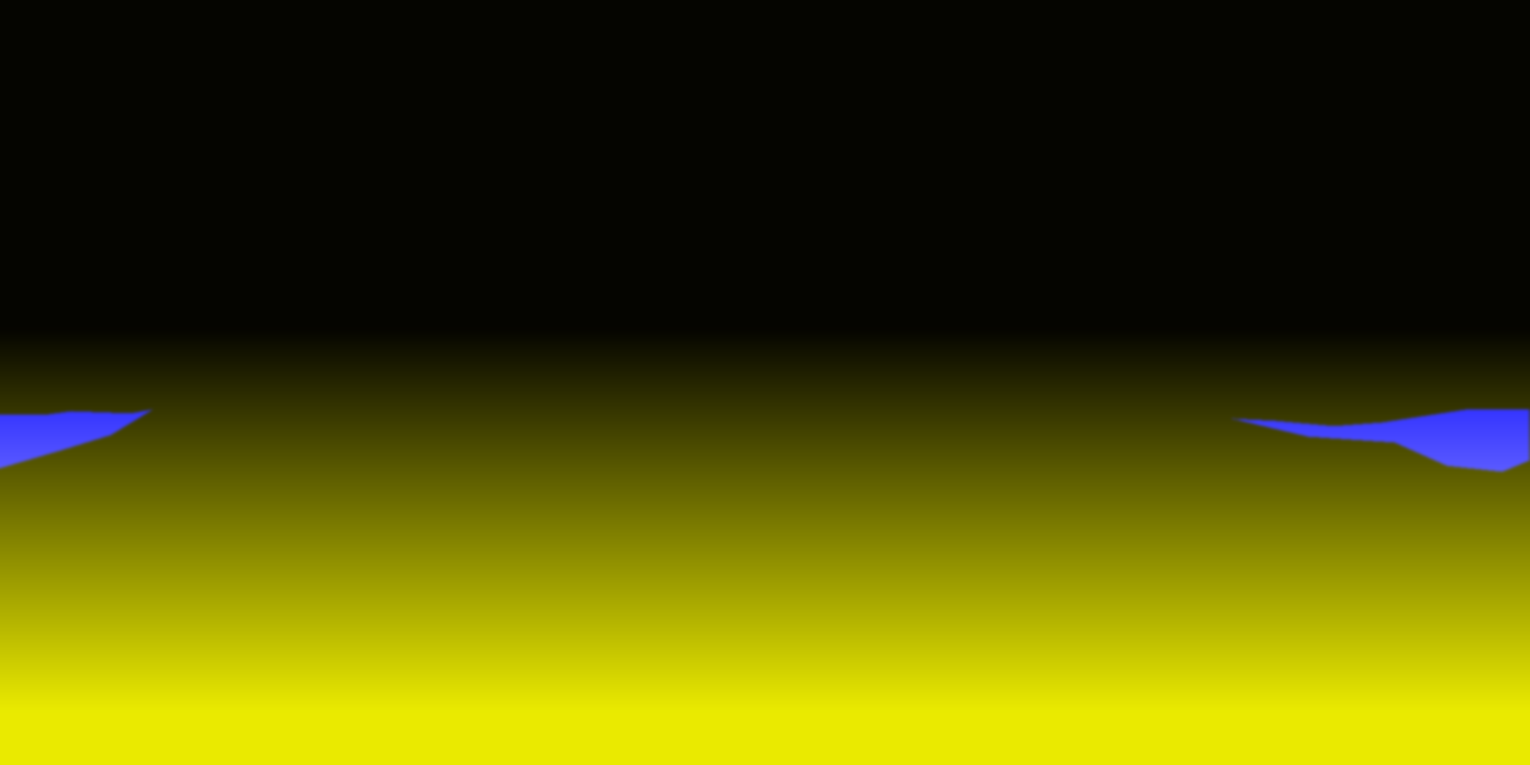
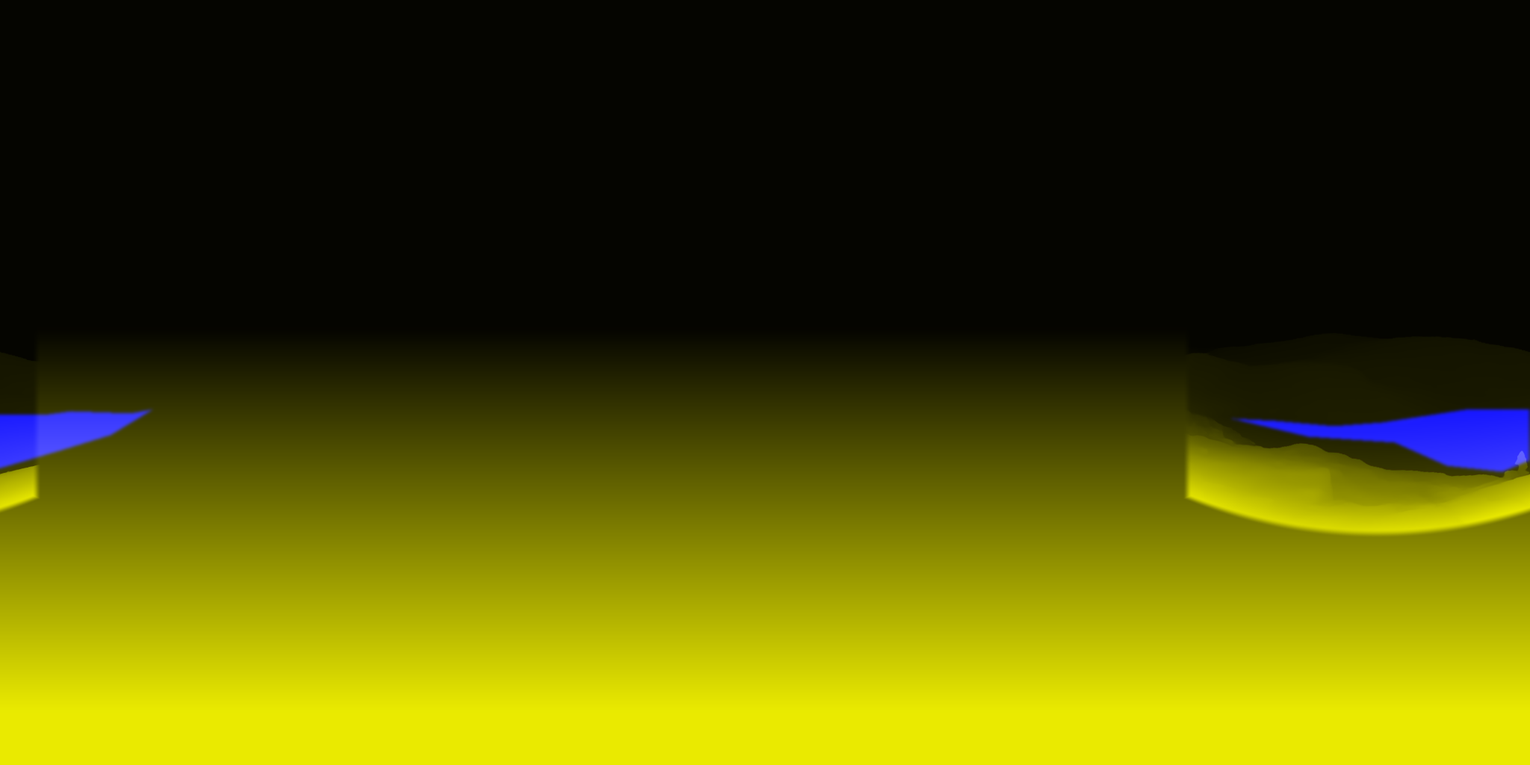
Apply verified Depth Anything V2 Small maps to World Window

Changed region(s): [[0.75, 0.5, 1.0, 0.7188], [0.0, 0.5312, 0.0312, 0.6875]]

diff --git a/dlc/world-window/credits.html b/dlc/world-window/credits.html
@@ -1,1 +1,1 @@
-<!doctype html><html lang="zh-Hant"><head><meta charset="utf-8"><meta name="viewport" content="width=device-width,initial-scale=1"><title>照片與授權 · 世界之窗</title><link rel="icon" href="./window.svg"><link rel="stylesheet" href="./style.css?v=20261111-room3d"></head><body><main class="credit-page"><a href="./">← 回到窗邊</a><h1>照片與授權</h1><p>山湖照片依 CC BY-SA 3.0 提供，其餘三張照片為 CC0。皆允許免費使用與商用；山湖照片及其改作需署名，並以相同授權分享。</p><p><a href="https://polyhaven.com/license">Poly Haven 官方素材授權</a> · <a href="https://github.com/Poly-Haven/polyhaven.com/blob/b1a6aa13afc03ae00860f6ac5fe6d5daf8e95356/public/locales/en/license.json">已核對的官方授權頁文字版本</a>。此處引用的是照片素材授權，與其網站程式碼的 AGPL 授權不同。</p><article><h2>Jordan Pond · 山湖</h2><p>攝影：Matthew Petroff · <a href="https://creativecommons.org/licenses/by-sa/3.0/">CC BY-SA 3.0</a></p><p><a href="https://github.com/mpetroff/pannellum/tree/818b698d2b60d9cd534a9395ea838d4d33ccb06d/examples">原始素材頁</a> · <a href="https://raw.githubusercontent.com/mpetroff/pannellum/818b698d2b60d9cd534a9395ea838d4d33ccb06d/examples/examplepano.jpg">4096 × 2048 原始照片</a> · <a href="https://github.com/mpetroff/pannellum/blob/818b698d2b60d9cd534a9395ea838d4d33ccb06d/examples/example-image-copying.txt">照片授權證據</a> · <a href="https://github.com/mpetroff/pannellum/blob/818b698d2b60d9cd534a9395ea838d4d33ccb06d/examples/example-tour.json">攝影署名紀錄</a></p><p>修改：不放大原圖，轉成 WebP、生成透視預覽、近似深度與水域遮罩。照片改作維持 CC BY-SA 3.0，詳見 <a href="./assets/lake-LICENSE.txt">隨附授權</a>。湖面微動為局部影像扭曲，不是實拍影片或物理水體；尚未使用 Depth Anything。</p></article><article><h2>venice sunset</h2><p>來源：Poly Haven · CC0 1.0</p><p><a href="https://polyhaven.com/a/venice_sunset">原始素材頁</a> · <a href="https://raw.githubusercontent.com/mrdoob/three.js/739478bc5ac18509be78095ed8f2fa4403b8207e/examples/textures/equirectangular/venice_sunset_1k.hdr">本次使用的 HDR 原檔</a></p><p>原始全景 1024 × 512；HDR 色調映射後轉成 WebP，以球面到透視投影呈現；1K 全景裁切後細節有限。深度為手工近似距離場，並非 AI 推算或實測深度。</p></article><article><h2>blouberg sunrise 2</h2><p>來源：Poly Haven · CC0 1.0</p><p><a href="https://polyhaven.com/a/blouberg_sunrise_2">原始素材頁</a> · <a href="https://raw.githubusercontent.com/mrdoob/three.js/739478bc5ac18509be78095ed8f2fa4403b8207e/examples/textures/equirectangular/blouberg_sunrise_2_1k.hdr">本次使用的 HDR 原檔</a></p><p>原始全景 1024 × 512；HDR 色調映射後轉成 WebP，以球面到透視投影呈現；1K 全景裁切後細節有限。深度為手工近似距離場，並非 AI 推算或實測深度。</p></article><article><h2>spruit sunrise</h2><p>來源：Poly Haven · CC0 1.0</p><p><a href="https://polyhaven.com/a/spruit_sunrise">原始素材頁</a> · <a href="https://raw.githubusercontent.com/mrdoob/three.js/739478bc5ac18509be78095ed8f2fa4403b8207e/examples/textures/equirectangular/spruit_sunrise_1k.hdr">本次使用的 HDR 原檔</a></p><p>原始全景 1024 × 512；HDR 色調映射後轉成 WebP，以球面到透視投影呈現；1K 全景裁切後細節有限。深度為手工近似距離場，並非 AI 推算或實測深度。</p></article><p>日夜是依地區日照調整光色，不是即時影像或天氣。地區座標為近似值；南非草地以約翰尼斯堡區域估計日照，並非確認的拍攝 GPS。</p><p><a href="./assets/sources.json">機器可讀來源、SHA-256 與處理紀錄</a></p><p>室內窗邊以 Three.js 呈現程序生成的 3D 幾何與材質，程式庫依 <a href="./vendor/THREE-LICENSE.txt">MIT 授權</a> 使用。室內不是掃描實景，窗外仍為照片與近似深度。</p></main></body></html>
+<!doctype html><html lang="zh-Hant"><head><meta charset="utf-8"><meta name="viewport" content="width=device-width,initial-scale=1"><title>照片與授權 · 世界之窗</title><link rel="icon" href="./window.svg"><link rel="stylesheet" href="./style.css?v=20261111-room3d"></head><body><main class="credit-page"><a href="./">← 回到窗邊</a><h1>照片與授權</h1><p>山湖照片依 CC BY-SA 3.0 提供，其餘三張照片為 CC0。皆允許免費使用與商用；山湖照片及其改作需署名，並以相同授權分享。</p><p><a href="https://polyhaven.com/license">Poly Haven 官方素材授權</a> · <a href="https://github.com/Poly-Haven/polyhaven.com/blob/b1a6aa13afc03ae00860f6ac5fe6d5daf8e95356/public/locales/en/license.json">已核對的官方授權頁文字版本</a>。此處引用的是照片素材授權，與其網站程式碼的 AGPL 授權不同。</p><article><h2>Jordan Pond · 山湖</h2><p>攝影：Matthew Petroff · <a href="https://creativecommons.org/licenses/by-sa/3.0/">CC BY-SA 3.0</a></p><p><a href="https://github.com/mpetroff/pannellum/tree/818b698d2b60d9cd534a9395ea838d4d33ccb06d/examples">原始素材頁</a> · <a href="https://raw.githubusercontent.com/mpetroff/pannellum/818b698d2b60d9cd534a9395ea838d4d33ccb06d/examples/examplepano.jpg">4096 × 2048 原始照片</a> · <a href="https://github.com/mpetroff/pannellum/blob/818b698d2b60d9cd534a9395ea838d4d33ccb06d/examples/example-image-copying.txt">照片授權證據</a> · <a href="https://github.com/mpetroff/pannellum/blob/818b698d2b60d9cd534a9395ea838d4d33ccb06d/examples/example-tour.json">攝影署名紀錄</a></p><p>修改：不放大原圖，轉成 WebP、生成透視預覽、模型估算的相對深度與手工水域遮罩。照片改作維持 CC BY-SA 3.0，詳見 <a href="./assets/lake-LICENSE.txt">隨附授權</a>。湖面微動為局部影像扭曲，不是實拍影片或物理水體；觀看範圍的相對深度由 Depth Anything V2 Small 離線估算。</p></article><article><h2>venice sunset</h2><p>來源：Poly Haven · CC0 1.0</p><p><a href="https://polyhaven.com/a/venice_sunset">原始素材頁</a> · <a href="https://raw.githubusercontent.com/mrdoob/three.js/739478bc5ac18509be78095ed8f2fa4403b8207e/examples/textures/equirectangular/venice_sunset_1k.hdr">本次使用的 HDR 原檔</a></p><p>原始全景 1024 × 512；HDR 色調映射後轉成 WebP，以球面到透視投影呈現；1K 全景裁切後細節有限。觀看範圍由 Depth Anything V2 Small 離線估算相對深度，未涵蓋的全景區域保留近似深度；不是實測距離。</p></article><article><h2>blouberg sunrise 2</h2><p>來源：Poly Haven · CC0 1.0</p><p><a href="https://polyhaven.com/a/blouberg_sunrise_2">原始素材頁</a> · <a href="https://raw.githubusercontent.com/mrdoob/three.js/739478bc5ac18509be78095ed8f2fa4403b8207e/examples/textures/equirectangular/blouberg_sunrise_2_1k.hdr">本次使用的 HDR 原檔</a></p><p>原始全景 1024 × 512；HDR 色調映射後轉成 WebP，以球面到透視投影呈現；1K 全景裁切後細節有限。觀看範圍由 Depth Anything V2 Small 離線估算相對深度，未涵蓋的全景區域保留近似深度；不是實測距離。</p></article><article><h2>spruit sunrise</h2><p>來源：Poly Haven · CC0 1.0</p><p><a href="https://polyhaven.com/a/spruit_sunrise">原始素材頁</a> · <a href="https://raw.githubusercontent.com/mrdoob/three.js/739478bc5ac18509be78095ed8f2fa4403b8207e/examples/textures/equirectangular/spruit_sunrise_1k.hdr">本次使用的 HDR 原檔</a></p><p>原始全景 1024 × 512；HDR 色調映射後轉成 WebP，以球面到透視投影呈現；1K 全景裁切後細節有限。觀看範圍由 Depth Anything V2 Small 離線估算相對深度，未涵蓋的全景區域保留近似深度；不是實測距離。</p></article><p>日夜是依地區日照調整光色，不是即時影像或天氣。地區座標為近似值；南非草地以約翰尼斯堡區域估計日照，並非確認的拍攝 GPS。</p><p><a href="./assets/sources.json">機器可讀來源、SHA-256 與處理紀錄</a></p><p>室內窗邊以 Three.js 呈現程序生成的 3D 幾何與材質，程式庫依 <a href="./vendor/THREE-LICENSE.txt">MIT 授權</a> 使用。室內不是掃描實景，窗外仍為照片與估算的相對深度。</p><p>深度模型：<a href="https://huggingface.co/depth-anything/Depth-Anything-V2-Small-hf">Depth Anything V2 Small</a>（Apache-2.0）。模型於製作素材時離線執行，訪客不需下載模型；自選照片仍使用近似深度。<a href="./assets/depth-inference.json">模型版本、權重與輸出 SHA-256 紀錄</a>。模型授權不取代照片及其改作的原有授權。</p></main></body></html>

diff --git a/dlc/world-window/app.js b/dlc/world-window/app.js
@@ -1,4 +1,4 @@
-import {scenes} from './scenes.js?v=20261111';
+import {scenes} from './scenes.js?v=20261117-depth';
 import {sunPosition,phase,localTime} from './solar.js';
 import {createRenderer} from './renderer.js?v=20261111';
 const $=s=>document.querySelector(s),reduced=matchMedia('(prefers-reduced-motion: reduce)');
@@ -11,12 +11,12 @@ initRenderer();
 if(renderer)import('./room.js?v=20261111-room3d').then(({createRoom})=>{
  try{roomRenderer=createRoom($('#room-view'),$('.room'),$('#view'),mode=>state.room=mode);roomRenderer.draw();}catch{state.room='css';}
 }).catch(()=>{state.room='css';});
-function sourceURLs(i){return [`./assets/${scenes[i].id}.webp`,`./assets/${scenes[i].id}-depth.png`];}
+function sourceURLs(i){return [`./assets/${scenes[i].id}.webp`,`./assets/${scenes[i].id}-depth.png?v=20261117-depth`];}
 function setPressed(){document.querySelectorAll('[data-scene]').forEach(b=>b.setAttribute('aria-pressed',String(+b.dataset.scene===state.scene&&!state.custom)));document.querySelectorAll('[data-time]').forEach(b=>b.setAttribute('aria-pressed',String(b.dataset.time===state.mode)));for(const [id,key]of [['motion','motion'],['rain','rain'],['quiet','paused']])$('#'+id).setAttribute('aria-pressed',String(state[key]));$('#quiet').textContent=state.paused?'繼續看':'停一會';$('#offset').value=state.offset===0?'此刻':`${state.offset>0?'+':''}${state.offset.toFixed(1)} 小時`;$('#hour').value=state.offset;}
 async function selectScene(i){
  const token=++request;$('#status').textContent='正在開一扇窗…';
  try{if(!cache.has(i))cache.set(i,Promise.all(sourceURLs(i).map(loadImage)));const loaded=await cache.get(i);if(token!==request)return;
-  images=loaded;renderer?.load(...loaded);state.scene=i;state.custom=false;state.ready=true;drift=[0,0];$('#still').src=scenes[i].preview||sourceURLs(i)[0];$('#still').alt=`${scenes[i].name}實景窗景`;$('#caption').textContent=scenes[i].caption;$('#place').textContent=scenes[i].en;$('#status').textContent=renderer?'':'此瀏覽器先以靜態照片陪你看風景。';if(uploadedURL){URL.revokeObjectURL(uploadedURL);uploadedURL=null;}setPressed();updateHud();
+  images=loaded;renderer?.load(...loaded);state.scene=i;state.custom=false;state.depthSource=scenes[i].depthSource;state.ready=true;drift=[0,0];$('#still').src=scenes[i].preview||sourceURLs(i)[0];$('#still').alt=`${scenes[i].name}實景窗景`;$('#caption').textContent=scenes[i].caption;$('#place').textContent=scenes[i].en;$('#status').textContent=renderer?'':'此瀏覽器先以靜態照片陪你看風景。';if(uploadedURL){URL.revokeObjectURL(uploadedURL);uploadedURL=null;}setPressed();updateHud();
  }catch{cache.delete(i);if(token===request)$('#status').textContent='窗景沒能載入，請再選一次。';}
 }
 scenes.forEach((s,i)=>{const b=document.createElement('button');b.className='place';b.dataset.scene=i;b.innerHTML=`<span>${s.name}</span><small>${String(i+1).padStart(2,'0')} / WINDOW</small>`;b.onclick=()=>selectScene(i);$('#places').appendChild(b);const li=document.createElement('li'),a=document.createElement('a');a.href=s.source||'https://polyhaven.com/a/'+s.asset;a.target='_blank';a.rel='noopener noreferrer';a.textContent=`${s.name} · ${s.author||'Poly Haven'} · ${s.license||'CC0'}`;li.appendChild(a);$('#credits').appendChild(li);});
@@ -32,7 +32,7 @@ $('#photo').onchange=async e=>{
  try{if(file.size>20*1024*1024)throw Error('請選擇小於 20 MB 的照片。');$('#upload-status').textContent='正在打開照片…';url=URL.createObjectURL(file);const im=await loadImage(url);if(token!==request){URL.revokeObjectURL(url);return;}
   const ratio=Math.min(1,2048/Math.max(im.naturalWidth,im.naturalHeight));const photo=document.createElement('canvas');photo.width=Math.round(im.naturalWidth*ratio);photo.height=Math.round(im.naturalHeight*ratio);photo.getContext('2d').drawImage(im,0,0,photo.width,photo.height);
   const depth=document.createElement('canvas');depth.width=depth.height=64;const c=depth.getContext('2d'),g=c.createLinearGradient(0,0,0,64);g.addColorStop(0,'#080800');g.addColorStop(.45,'#181800');g.addColorStop(1,'#d0d000');c.fillStyle=g;c.fillRect(0,0,64,64);
-  renderer?.load(photo,depth);images=[photo,depth];if(uploadedURL)URL.revokeObjectURL(uploadedURL);uploadedURL=url;state.custom=true;state.ready=true;$('#still').src=url;$('#still').alt='你選擇的私人照片';$('#caption').textContent='你的照片，借這座城市的光。';$('#place').textContent='YOUR WINDOW';$('#upload-status').textContent='已打開，只留在你的瀏覽器。';$('#status').textContent='';setPressed();about.close();
+  renderer?.load(photo,depth);images=[photo,depth];if(uploadedURL)URL.revokeObjectURL(uploadedURL);uploadedURL=url;state.custom=true;state.depthSource='approximate';state.ready=true;$('#still').src=url;$('#still').alt='你選擇的私人照片';$('#caption').textContent='你的照片，借這座城市的光。';$('#place').textContent='YOUR WINDOW';$('#upload-status').textContent='已打開，只留在你的瀏覽器。';$('#status').textContent='';setPressed();about.close();
  }catch(error){if(url)URL.revokeObjectURL(url);$('#upload-status').textContent=error.message.startsWith('請')?error.message:'這張照片讀取失敗，請試試 JPG、PNG 或 WebP。';}
 };
 $('#view').addEventListener('webglcontextlost',e=>{e.preventDefault();lost=true;$('#window').classList.remove('ready');$('#status').textContent='暫時以靜態照片顯示。';});

diff --git a/dlc/world-window/index.html b/dlc/world-window/index.html
@@ -14,5 +14,5 @@
  <div class="time-adjust"><label for="hour">借一點別的時光</label><input id="hour" type="range" min="-12" max="12" step=".25" value="0"><output id="offset" for="hour">此刻</output></div>
  <footer><span>一張實景照片，一小段留白。</span><button id="about-open">照片與授權 ↗</button></footer>
 </main>
-<dialog id="about"><div class="dialog-head"><h2>窗外的風景</h2><button id="about-close" aria-label="關閉照片與授權">×</button></div><p>這裡是照片窗景，光色依當地日照模擬，並非即時影像。保留照片原有的雲與風景，讓時間輕輕走過。</p><p>山湖實景由 Matthew Petroff 拍攝，原圖 4096 × 2048，依 <a href="https://creativecommons.org/licenses/by-sa/3.0/">CC BY-SA 3.0</a> 使用；我們轉為 WebP、製作透視預覽，衍生照片保留相同授權。其餘三張實景全景照片來自 <a href="https://polyhaven.com/" target="_blank" rel="noopener noreferrer">Poly Haven</a>，以 <a href="https://creativecommons.org/publicdomain/zero/1.0/" target="_blank" rel="noopener noreferrer">CC0</a> 提供，可免費使用、修改與商用。其餘三張原圖為 1K 全景，裁切後細節較少。我們校正全景透視、調整光色並加入輕微視差。深度目前為手工近似，尚未使用 Depth Anything。</p><ul id="credits"></ul><p><a href="./credits.html">完整來源與處理紀錄 ↗</a></p><label class="upload" for="photo">也可以打開自己的照片<input id="photo" type="file" accept="image/jpeg,image/png,image/webp"></label><p class="fine">照片只在你的瀏覽器中處理，不會上傳。重新選擇窗景可還原。</p><p id="upload-status" role="status"></p></dialog>
-<script type="module" src="./app.js?v=20261111-room3d"></script></body></html>
+<dialog id="about"><div class="dialog-head"><h2>窗外的風景</h2><button id="about-close" aria-label="關閉照片與授權">×</button></div><p>這裡是照片窗景，光色依當地日照模擬，並非即時影像。保留照片原有的雲與風景，讓時間輕輕走過。</p><p>山湖實景由 Matthew Petroff 拍攝，原圖 4096 × 2048，依 <a href="https://creativecommons.org/licenses/by-sa/3.0/">CC BY-SA 3.0</a> 使用；我們轉為 WebP、製作透視預覽，衍生照片保留相同授權。其餘三張實景全景照片來自 <a href="https://polyhaven.com/" target="_blank" rel="noopener noreferrer">Poly Haven</a>，以 <a href="https://creativecommons.org/publicdomain/zero/1.0/" target="_blank" rel="noopener noreferrer">CC0</a> 提供，可免費使用、修改與商用。其餘三張原圖為 1K 全景，裁切後細節較少。我們校正全景透視、調整光色並加入輕微視差。四個實景的觀看範圍已使用 Depth Anything V2 Small 估算相對深度，呈現輕微遠近視差；不是實測距離。</p><ul id="credits"></ul><p><a href="./credits.html">完整來源與處理紀錄 ↗</a></p><label class="upload" for="photo">也可以打開自己的照片<input id="photo" type="file" accept="image/jpeg,image/png,image/webp"></label><p class="fine">照片只在你的瀏覽器中處理，不會上傳；自選照片使用近似深度，不執行 AI 推論。重新選擇窗景可還原。</p><p id="upload-status" role="status"></p></dialog>
+<script type="module" src="./app.js?v=20261117-depth"></script></body></html>

diff --git a/dlc/world-window/scenes.js b/dlc/world-window/scenes.js
@@ -1,6 +1,6 @@
 export const scenes=[
- {id:'venice',name:'威尼斯',en:'VENICE, ITALY',caption:'水岸的光，慢慢走過。',lat:45.43,lon:12.34,tz:'Europe/Rome',asset:'venice_sunset',position:.23},
- {id:'coast',name:'開普敦',en:'CAPE TOWN, SOUTH AFRICA',caption:'把心事，交給遠一點的海。',lat:-33.82,lon:18.48,tz:'Africa/Johannesburg',asset:'blouberg_sunrise_2',position:.5},
- {id:'meadow',name:'南非草地',en:'A MEADOW, SOUTH AFRICA',caption:'風經過，什麼也不用趕。',lat:-26.1,lon:28.0,tz:'Africa/Johannesburg',asset:'spruit_sunrise',position:.46},
- {id:'lake',name:'山湖',en:'JORDAN POND, MAINE',caption:'山與湖，都不用趕路。',lat:44.32,lon:-68.25,tz:'America/New_York',asset:'Jordan Pond',author:'Matthew Petroff',license:'CC BY-SA 3.0',source:'https://github.com/mpetroff/pannellum/tree/818b698d2b60d9cd534a9395ea838d4d33ccb06d/examples',position:.9,preview:'./assets/lake-still.webp'}
+ {id:'venice',depthSource:'depth-anything-v2-small',name:'威尼斯',en:'VENICE, ITALY',caption:'水岸的光，慢慢走過。',lat:45.43,lon:12.34,tz:'Europe/Rome',asset:'venice_sunset',position:.23},
+ {id:'coast',depthSource:'depth-anything-v2-small',name:'開普敦',en:'CAPE TOWN, SOUTH AFRICA',caption:'把心事，交給遠一點的海。',lat:-33.82,lon:18.48,tz:'Africa/Johannesburg',asset:'blouberg_sunrise_2',position:.5},
+ {id:'meadow',depthSource:'depth-anything-v2-small',name:'南非草地',en:'A MEADOW, SOUTH AFRICA',caption:'風經過，什麼也不用趕。',lat:-26.1,lon:28.0,tz:'Africa/Johannesburg',asset:'spruit_sunrise',position:.46},
+ {id:'lake',depthSource:'depth-anything-v2-small',name:'山湖',en:'JORDAN POND, MAINE',caption:'山與湖，都不用趕路。',lat:44.32,lon:-68.25,tz:'America/New_York',asset:'Jordan Pond',author:'Matthew Petroff',license:'CC BY-SA 3.0',source:'https://github.com/mpetroff/pannellum/tree/818b698d2b60d9cd534a9395ea838d4d33ccb06d/examples',position:.9,preview:'./assets/lake-still.webp'}
 ];

diff --git a/dlc/world-window/README.md b/dlc/world-window/README.md
@@ -11,7 +11,7 @@
 - Poly Haven 的 Venice Sunset、Blouberg Sunrise 2、Spruit Sunrise 全景照片，皆依官方照片資產 **CC0 1.0** 授權，可使用、修改、散布與商用。
 - 原檔取自 Three.js 官方 GitHub examples 的既有副本；已鎖定 commit、SHA-256 與來源頁，見 [sources.json](assets/sources.json)。授權依 Poly Haven 的素材政策，不是憑 Three.js 程式碼 MIT 推定照片授權。
 - 官方素材政策核對自 Poly Haven 網站倉庫 `b1a6aa13afc03ae00860f6ac5fe6d5daf8e95356/public/locales/en/license.json`。它明載所有 HDRI 資產 CC0，允許商用與重新散布。其網站程式碼 AGPL 與照片資產授權不同，本頁未複製該網站程式碼。
-- 其餘三張來源均為 **1024×512** HDR 全景。轉成 WebP、進行色調映射；R/G 深度圖為手工近似距離場，並非 Depth Anything 輸出或實測深度。原環境禁止連線 Hugging Face，因此沒有宣稱完成模型推論。沒有辨識真窗戶或假造夜間窗燈。
+- 其餘三張來源均為 **1024×512** HDR 全景。轉成 WebP、進行色調映射；R/G 深度圖的觀看區域已改為 Depth Anything V2 Small 離線推論，未涵蓋區域保留近似深度；不是實測距離。沒有辨識真窗戶或假造夜間窗燈。
 - 網頁內有簡短照片授權視窗與 [完整來源頁](credits.html)。原有三景照片與深度共約 330 KB；新增山湖及透視備援約 2.5 MB，全數隨站部署，訪客無須連到圖片網站、外部字型或下載 AI 模型。
 - 位置為地區近似座標。草地以約翰尼斯堡區域估計日照，並非確認的拍攝 GPS；海灘使用 Blouberg 地區。照片自帶原始太陽與雲，日夜是氛圍色調模擬，並非即時攝影或氣象。
 
@@ -26,7 +26,7 @@ node dlc/world-window/tests/browser.mjs
 
 窗外使用單一 WebGL draw call，最多 210 萬內部像素、DPR 上限 2、動態最多 30 FPS。室內使用專案已有的 Three.js（MIT），本地提供約 704 KB 的壓縮模組，不依賴 CDN。室內另設 WebGL2 畫布，最多 150 萬內部像素、DPR 上限 1.5；小於 2 萬三角形與 40 draw calls 的驗證預算。靜止室內重用上一幀；陰影只在幾何／尺寸改變時重新計算；分頁隱藏時不渲染。尊重 reduced motion，提供靜態照片 fallback、context loss 處理、場景切換競態保護、載入失敗重試。此策略是降低負擔，不保證所有真機都達 30 FPS。
 
-窗外使用球面全景到透視投影，避免將 360° 照片直接鋪平；山湖使用原生 4K 全景；其餘 1K 全景裁切後細節有限，並未以放大冒充高解析。室內採霧面凹入式窗框、程序生成木紋／灰泥／布料、窗台與窗簾；整片固定觀景窗不設中央立框或把手；玻璃反光集中在邊緣，避免整片霧化。室內窗邊已改為真正 3D 幾何：牆面開口、倒角窗框、木窗台、布料褶皺、窗簾桿與有內壁／把手的陶杯，配合 PBR 材質與投射陰影。非實景掃描或可走動的整間房屋。偏軸相機保持照片平面對齊，讓前方物件依距離產生視差。WebGL2 不可用、模組載入失敗或室內 context loss 時，保留 CSS 窗邊備援。微雨使用隨機大小的兩層雨珠、沿玻璃滑落的水滴、折射和濕玻璃柔化；不是室外雨粒子模擬。近似深度仍限制物體邊緣的視差正確性，微幅移動不能代替幾何重建。
+窗外使用球面全景到透視投影，避免將 360° 照片直接鋪平；山湖使用原生 4K 全景；其餘 1K 全景裁切後細節有限，並未以放大冒充高解析。室內採霧面凹入式窗框、程序生成木紋／灰泥／布料、窗台與窗簾；整片固定觀景窗不設中央立框或把手；玻璃反光集中在邊緣，避免整片霧化。室內窗邊已改為真正 3D 幾何：牆面開口、倒角窗框、木窗台、布料褶皺、窗簾桿與有內壁／把手的陶杯，配合 PBR 材質與投射陰影。非實景掃描或可走動的整間房屋。偏軸相機保持照片平面對齊，讓前方物件依距離產生視差。WebGL2 不可用、模組載入失敗或室內 context loss 時，保留 CSS 窗邊備援。微雨使用隨機大小的兩層雨珠、沿玻璃滑落的水滴、折射和濕玻璃柔化；不是室外雨粒子模擬。模型估算仍限制物體邊緣的視差正確性，微幅移動不能代替幾何重建。
 
 功能：四個實景、當地時間與 ±12 小時、原景（預設）、96 秒一天快轉、微幅視差、玻璃微雨、暫停、全螢幕、手機直橫向，以及只在本機處理的照片匯入。暫停凍結動畫；當地時鐘繼續走。圖片 Blob URL 在換景後釋放，不上傳、不寫入持久儲存。
 
@@ -38,7 +38,7 @@ node dlc/world-window/tests/browser.mjs
 node dlc/world-window/tools/prepare-assets.mjs /tmp/world-window-assets
 ```
 
-工具以官方副本的固定 commit 下載，驗證 SHA-256 後轉圖。建置／部署直接使用已提交圖片，不執行下載或依賴 Python 圖像套件。未來可換同來源更高解析度照片與經檢查的模型深度圖，無需變更頁面路徑。
+工具以官方副本的固定 commit 下載，驗證 SHA-256 後轉圖。建置／部署直接使用已提交圖片，不執行下載或依賴 Python 圖像套件。未來可換同來源更高解析度照片並重新產生模型深度圖，無需變更頁面路徑。
 
 山湖的 B 通道為保守水域遮罩，僅在湖面做亞像素級 UV 微動；岸邊與岩石不參與，微風關閉／減少動態時停用。暫停凍結動畫。
 
@@ -48,6 +48,6 @@ node dlc/world-window/tools/prepare-assets.mjs /tmp/world-window-assets
 python3 dlc/world-window/tools/prepare-lake.py /tmp/window-lake
 ```
 
-此工具下載作者提供的固定版本並驗證 SHA-256。Depth Anything 與原三景高解析來源仍受環境下載政策限制；此版本未宣稱已使用模型。
+此工具下載作者提供的固定版本並驗證 SHA-256。四景的 Depth Anything V2 Small 推論已完成並套用，版本與雜湊見 `assets/depth-inference.json`。原三景照片仍為原有 1K 來源。上述素材重製工具會產生舊版近似深度，請勿直接覆蓋已套用的模型深度。
 
 室內 3D 模組由 `tools/prepare-window.mjs` 從已安裝的 Three.js 複製，`npm run dev:window`、`npm run test:window` 與 Pages 組裝均自動準備。`vendor/` 為忽略的生成目錄；授權隨部署附在 `vendor/THREE-LICENSE.txt`。

diff --git a/dlc/world-window/docs/DEPTH_ANYTHING.md b/dlc/world-window/docs/DEPTH_ANYTHING.md
@@ -1,34 +1,33 @@
 # Depth Anything V2 integration preparation
 
-Status: the model has **not** been downloaded or executed. The live site still uses
-approximate depth. Input preparation and five projection/packing tests pass; the
-inference path still needs a real model run and visual review before installation.
+Status: official V2 Small inference completed for lake, venice, coast and meadow
+on 2026-11-17. The reviewed candidate maps are now installed in assets/.
+`assets/depth-inference.json` records the immutable model revision, weights SHA-256,
+input and output hashes. Weight SHA-256 was checked against official Hugging Face
+LFS metadata. All water masks are preserved byte-for-byte. Five projection tests
+and the desktop/mobile browser suite using all four candidate maps passed.
+Personal photo uploads continue to use approximate depth, with no model download.
 
 Use only `depth-anything/Depth-Anything-V2-Small-hf`. The upstream author identifies
 Small as Apache-2.0; Base/Large/Giant have noncommercial model licenses:
 https://github.com/DepthAnything/Depth-Anything-V2/blob/a561b849ebae10a6f5ef49e26c83cbbcd36c71bf/README.md#license
 
-## Environment and network blocker
+## Environment
 
-The existing Python environment is `/workspace/.venvs/window-depth` with CPU
-PyTorch 2.8.0+cpu and transformers 4.57.1; Pillow and NumPy are available. Imports
-of AutoImageProcessor and AutoModelForDepthEstimation were verified.
-
-The saved environment draft includes `huggingface.co` and
-`cas-bridge.xethub.hf.co`. On the latest check, the attached environment still had
-spec revision 2, no custom model domains, and model requests returned proxy 403.
-The running proxy's status also had no Hugging Face rules. A saved draft does not
-prove the running policy has changed. Recheck environment status and make one
-fresh HTTPS request after the settings are applied. Do not use mirrors or a
-remote runner to evade the current network policy.
+Use `/workspace/window-depth-venv/bin/python` (CPU PyTorch 2.5.1+cpu,
+transformers 4.48.3), with `HF_HOME=/workspace/.cache/huggingface`.
+The verified model cache is `/workspace/.cache/window-depth`.
+Allow huggingface.co and its weight-download redirect us.aws.cdn.hf.co.
+Keep standard HTTPS/proxy verification enabled. No token is required for this
+public model. The earlier network blocker has been resolved.
 
 ## Prepare and verify inputs without a model
 
 From the repository root:
 
 ```sh
-/workspace/.venvs/window-depth/bin/python dlc/world-window/tools/test_depth_projection.py
-/workspace/.venvs/window-depth/bin/python dlc/world-window/tools/infer-depth.py \
+/workspace/window-depth-venv/bin/python dlc/world-window/tools/test_depth_projection.py
+/workspace/window-depth-venv/bin/python dlc/world-window/tools/infer-depth.py \
   --prepare-only --scenes lake venice coast meadow \
   --output /tmp/window-depth-inputs-new
 ```
@@ -37,10 +36,10 @@ The output directory must be new and outside published assets. `review.html`
 shows perspective inputs and current approximate depth. Its manifest explicitly
 says `inputs-only-no-model`, with `model: null`.
 
-## Actual inference, after network access works
+## Reproduce inference
 
 ```sh
-/workspace/.venvs/window-depth/bin/python dlc/world-window/tools/infer-depth.py \
+/workspace/window-depth-venv/bin/python dlc/world-window/tools/infer-depth.py \
   --scenes lake --output /tmp/window-depth-lake-candidate
 ```
 
@@ -63,7 +62,7 @@ change runtime labels, commit, push or deploy. `manifest.json` says
 `inferred-needs-review` only after actual model inference finishes successfully.
 Flat or nonfinite model outputs are rejected.
 
-## Remaining acceptance and activation work
+## Acceptance checklist for future regenerations
 
 1. Inspect `review.html`: bright should mean nearer. Check sky, rocks, tree edges,
    buildings and water; reject visibly wrong depth rather than shipping it merely
